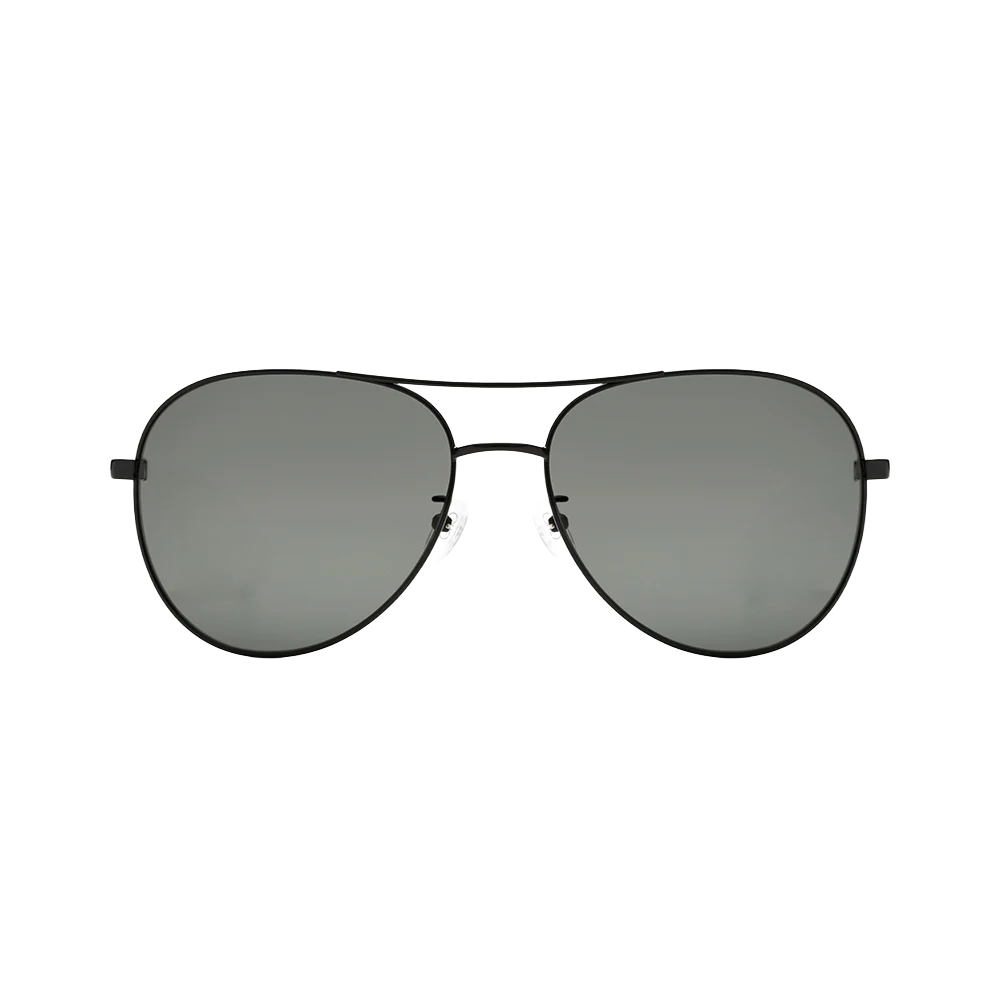
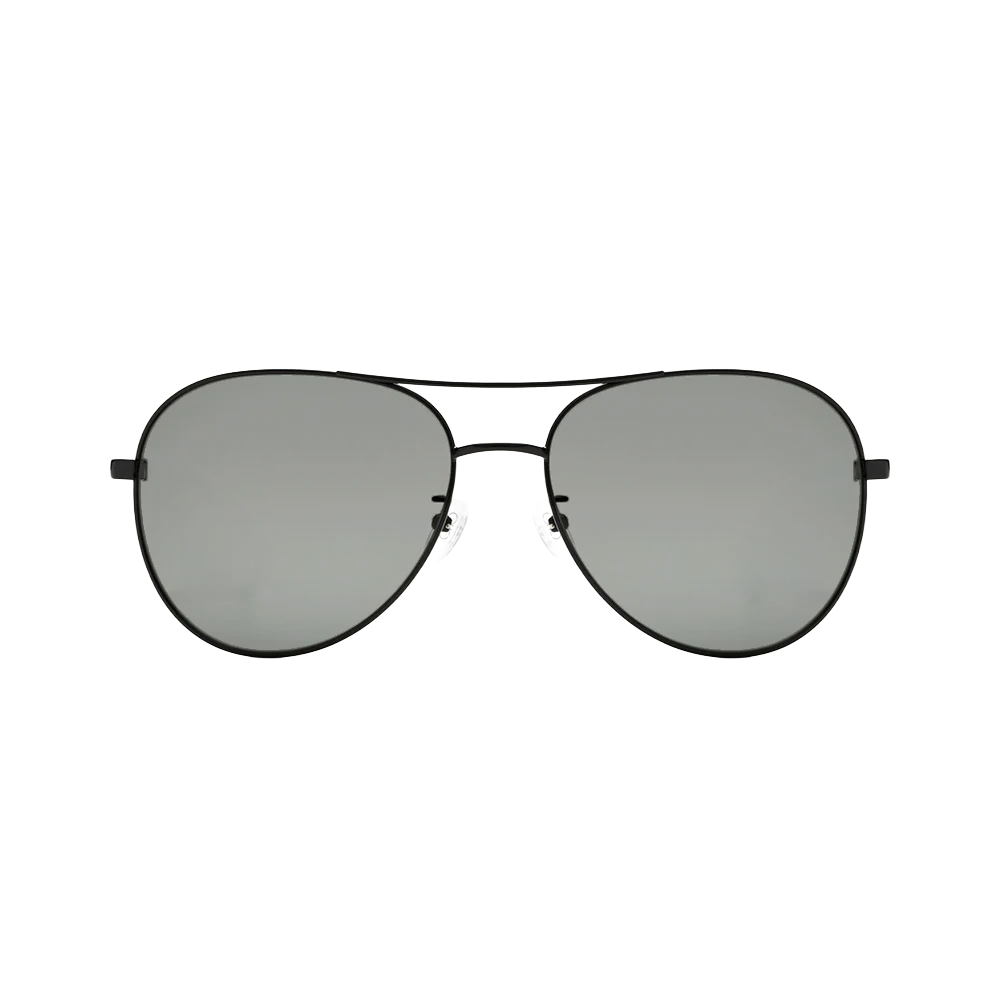
change alpha

Changed region(s): [[0.527, 0.372, 0.868, 0.651], [0.124, 0.372, 0.465, 0.651]]

diff --git a/frames/images/lens_transparent.py b/frames/images/lens_transparent.py
@@ -1,0 +1,139 @@
+#!/usr/bin/env python3
+# -*- coding: utf-8 -*-
+import argparse
+from pathlib import Path
+import numpy as np
+from PIL import Image
+import cv2
+
+def to_rgba(path: Path):
+    img = Image.open(path).convert('RGBA')
+    arr = np.array(img)            # H,W,4 (RGBA)
+    return arr
+
+def ensure_foreground_alpha(arr):
+    """알파가 전부 255인 경우(배경이 합성 안된 PNG) 대비:
+       흰 배경 추정해서 전경 마스크 생성 후 외곽은 알파 0으로 만든다."""
+    a = arr[...,3]
+    if np.any(a < 255):
+        return arr  # 이미 투명 배경
+    rgb = arr[...,:3].astype(np.float32)/255.0
+    # 밝은 배경(흰색) 가정: 매우 밝고 채도 낮은 픽셀을 배경으로
+    mx, mn = rgb.max(-1), rgb.min(-1)
+    val, sat = mx, (mx-mn)/(mx+1e-6)
+    bg = (val > 0.98) & (sat < 0.05)
+    # 외곽에서 안쪽으로 퍼뜨림
+    bg_u8 = (bg.astype(np.uint8)*255)
+    bg_u8 = cv2.morphologyEx(bg_u8, cv2.MORPH_CLOSE,
+                             cv2.getStructuringElement(cv2.MORPH_ELLIPSE,(7,7)), 1)
+    out = arr.copy()
+    out[...,3] = np.where(bg_u8>0, 0, 255).astype(np.uint8)
+    return out
+
+def kmeans2(X, max_iters=25):
+    # X: (N,3) float32 [0..1]
+    v = X.mean(axis=1)
+    c0 = X[np.argmin(v)]
+    c1 = X[np.argmax(v)]
+    C = np.stack([c0, c1], axis=0)
+    for _ in range(max_iters):
+        d0 = np.sum((X - C[0])**2, axis=1)
+        d1 = np.sum((X - C[1])**2, axis=1)
+        lab = (d1 < d0).astype(np.int8)
+        newC = []
+        for k in (0,1):
+            pts = X[lab==k]
+            newC.append(C[k] if len(pts)==0 else pts.mean(axis=0))
+        newC = np.stack(newC, axis=0)
+        if np.allclose(newC, C): break
+        C = newC
+    return lab, C
+
+def decide_clusters(rgb, fg, lab_full):
+    # HSV 근사
+    mx, mn = rgb.max(-1), rgb.min(-1)
+    V = mx
+    S = (mx - mn) / (mx + 1e-6)
+
+    # 엣지/테두리 링
+    edges = cv2.Canny((V*255).astype(np.uint8), 50, 150) > 0
+    fg_u8 = (fg.astype(np.uint8) * 255)
+    dil = cv2.dilate(fg_u8, np.ones((3,3), np.uint8), iterations=2) > 0
+    ero = cv2.erode (fg_u8, np.ones((3,3), np.uint8), iterations=2) > 0
+    ring = dil & (~ero)
+
+    scores = []
+    for k in (0,1):
+        mk = np.zeros_like(fg, dtype=bool)
+        mk[fg] = (lab_full == k)
+        if mk.sum()==0:
+            scores.append(-1); continue
+        area_ratio   = mk.sum()/fg.sum()
+        meanV        = V[mk].mean()
+        meanS        = S[mk].mean()
+        edge_overlap = (edges & mk).sum() / mk.sum()
+        border_ratio = (ring  & mk).sum() / mk.sum()
+        dark = 1.0 - float(meanV)
+        score = (0.45*dark +
+                 0.25*edge_overlap +
+                 0.15*border_ratio +
+                 0.10*(1.0 - area_ratio) +
+                 0.05*float(meanS))
+        scores.append(score)
+    frame_cluster = int(np.argmax(scores))
+    lens_cluster  = 1 - frame_cluster
+    return frame_cluster, lens_cluster
+
+def build_lens_mask(arr):
+    rgba = arr.copy()
+    rgb = rgba[...,:3].astype(np.float32)/255.0
+    a   = rgba[...,3]
+    fg = a > 0
+
+    X = rgb[fg].reshape(-1,3)
+    if X.size == 0:
+        return np.zeros(rgb.shape[:2], dtype=bool)
+
+    labels, centers = kmeans2(X, max_iters=25)
+    lab_full = np.zeros(fg.sum(), dtype=np.int8); lab_full[:] = labels
+    frame_cluster, lens_cluster = decide_clusters(rgb, fg, lab_full)
+
+    lens_mask = np.zeros_like(fg, dtype=bool)
+    lens_mask[fg] = (lab_full == lens_cluster)
+
+    # 코받침(밝고 무채색) 제외
+    mx, mn = rgb.max(-1), rgb.min(-1)
+    val, sat = mx, (mx-mn)/(mx+1e-6)
+    nosepad = (val > 0.85) & (sat < 0.15)
+    lens_mask &= ~nosepad
+
+    # 가장자리 살짝 수축
+    lens_u8 = (lens_mask.astype(np.uint8)*255)
+    lens_u8 = cv2.erode(lens_u8, np.ones((3,3), np.uint8), iterations=1)
+    return lens_u8 > 0
+
+def apply_alpha(arr, lens_mask, alpha_scale):
+    out = arr.copy()
+    a = out[...,3]
+    a[lens_mask] = (a[lens_mask].astype(np.float32)*alpha_scale).astype(np.uint8)
+    out[...,3] = a
+    return out
+
+def main():
+    ap = argparse.ArgumentParser()
+    ap.add_argument('--in', dest='in_path', required=True)
+    ap.add_argument('--out', dest='out_path', required=True)
+    ap.add_argument('--alpha', type=float, default=0.55, help='렌즈 투명도 스케일(0~1)')
+    args = ap.parse_args()
+
+    src = to_rgba(Path(args.in_path))
+    src = ensure_foreground_alpha(src)
+    lens_mask = build_lens_mask(src)
+    out = apply_alpha(src, lens_mask, args.alpha)
+
+    Image.fromarray(out, mode='RGBA').save(args.out_path)
+    h,w = lens_mask.shape
+    print(f"✅ saved: {args.out_path}  (size: {w}x{h}, lens pixels: {int(lens_mask.sum())})")
+
+if __name__ == '__main__':
+    main()
